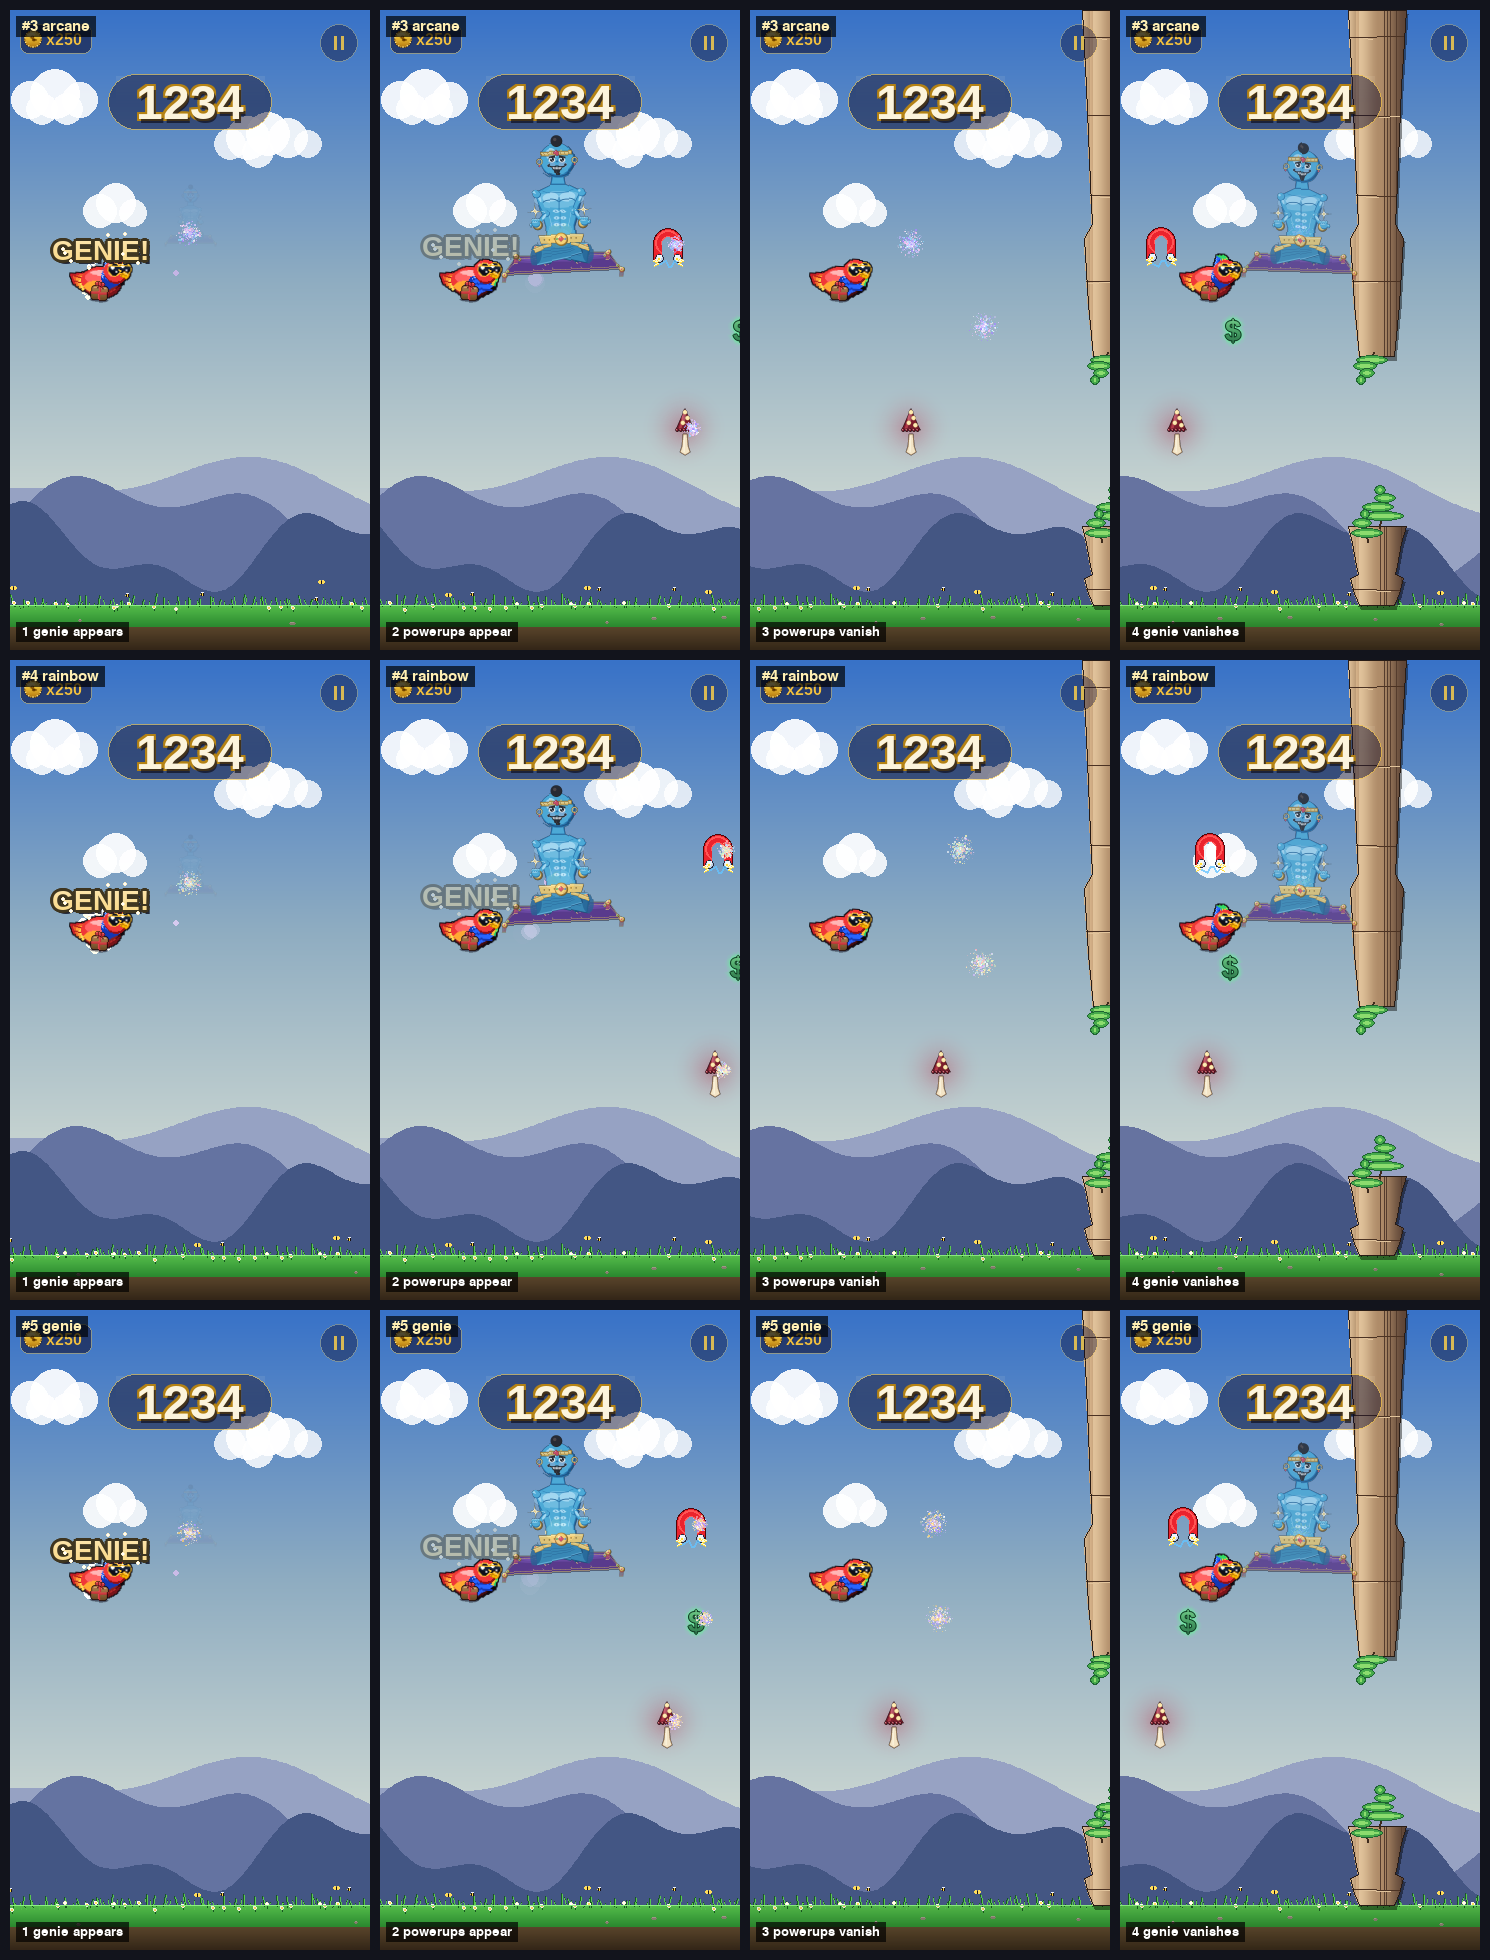
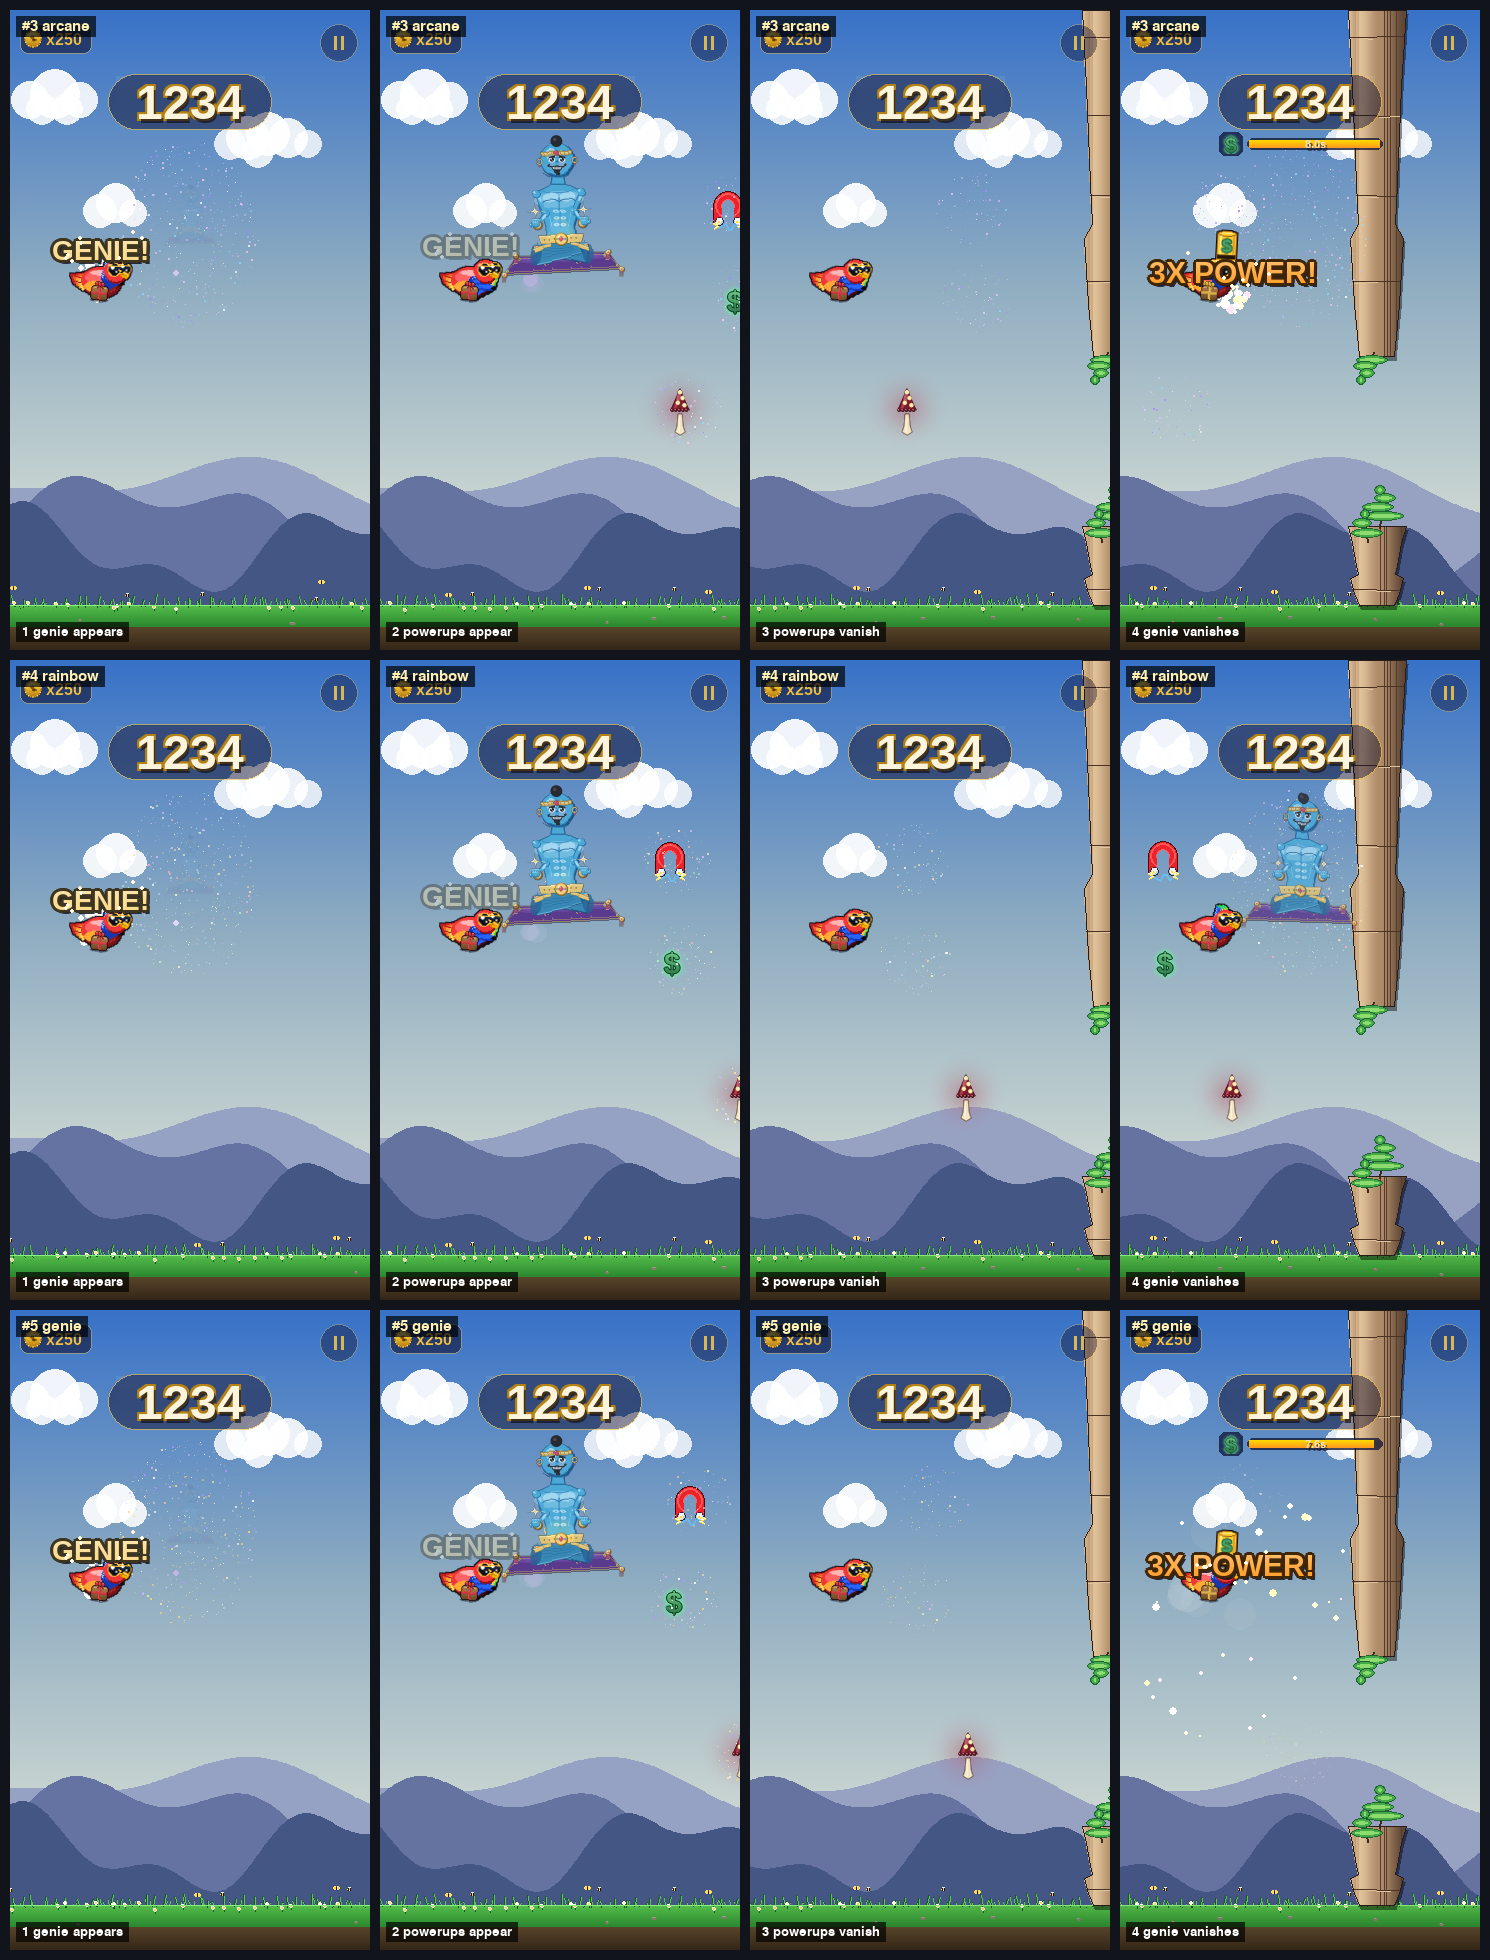
genie: size the poof to the thing poofing — a cloud enveloping the genie
_spawn_grainy_poof now fills an ellipse of (rx, ry) around the centre
instead of radiating from a point, with density auto-scaling to area.
The genie passes his on-screen sprite extents so appear/vanish wrap his
whole body in a magic-dust cloud; offers use a tight default puff.
Regenerates the 3-design x 4-phase comparison + offer-vanish demo.

https://claude.ai/code/session_01Ms85cBEeRiAtxZBCNh5vN5

diff --git a/game/world.py b/game/world.py
@@ -2194,25 +2194,33 @@ class World:
             color = random.choice(puff_colors)
             self.particles.append(CloudPuff(x, y, vx, vy, life, r0, r1, color))
 
-    def _spawn_grainy_poof(self, x, y, palette=None, n=470):
-        """Magic-dust poof (design #5 'genie gold+violet') — a DENSE
-        cloud of many tiny twinkling motes in white + gold + violet.
-        Used for EVERY genie beat: the genie appearing / vanishing and
-        the offers appearing / vanishing."""
+    def _spawn_grainy_poof(self, x, y, palette=None, n=None, rx=34, ry=34):
+        """Magic-dust poof (design #5 'genie gold+violet'). Fills an
+        ELLIPSE of half-extents (rx, ry) around (x, y) with fine
+        twinkling motes, so the cloud's AREA matches whatever is
+        poofing — a tight puff for a small offer powerup, a big cloud
+        enveloping the whole genie. Motes start spread across the
+        ellipse and drift gently outward; count auto-scales with area
+        to hold density."""
         if palette is None:
             palette = [(255, 255, 255), (255, 235, 180), (255, 215, 120),
                        (210, 185, 255), (175, 150, 255)]
+        if n is None:
+            n = max(90, int(rx * ry * 0.075))
         for _ in range(n):
-            ang = random.uniform(0, math.tau)
-            # Even disc fill (sqrt) so the cloud is dense in the middle
-            # and thins toward the edges.
-            sp  = random.uniform(10, 205) * math.sqrt(random.random())
-            vx  = math.cos(ang) * sp
-            vy  = math.sin(ang) * sp - random.uniform(6, 40)
-            life = random.uniform(0.40, 0.90)
+            a  = random.uniform(0, math.tau)
+            rr = math.sqrt(random.random())          # even area fill
+            px = x + math.cos(a) * rx * rr
+            py = y + math.sin(a) * ry * rr
+            dx, dy = px - x, py - y
+            d = math.hypot(dx, dy) or 1.0
+            spd = random.uniform(6, 42)
+            vx = dx / d * spd                         # gentle outward drift
+            vy = dy / d * spd - random.uniform(6, 28)
+            life = random.uniform(0.45, 0.95)
             size = random.choice((1, 1, 1, 2))
             self.particles.append(
-                PoofGrain(x, y, vx, vy, life, size, random.choice(palette)))
+                PoofGrain(px, py, vx, vy, life, size, random.choice(palette)))
 
     def _spawn_genie_reveal_poof(self, x, y):
         """Poof when a Genie offer materialises — the SAME design #5

diff --git a/tools/render_genie_phases.py b/tools/render_genie_phases.py
@@ -47,18 +47,26 @@ PHASES = ["1 genie appears", "2 powerups appear",
           "3 powerups vanish", "4 genie vanishes"]
 
 
-def _patch_palette(w, palette, n):
-    """Force every genie poof on this world to use `palette`/`n`."""
-    def _poof(self, x, y, palette_arg=None, n_arg=None):
-        for _ in range(n):
-            ang = random.uniform(0, math.tau)
-            sp  = random.uniform(10, 205) * math.sqrt(random.random())
-            vx  = math.cos(ang) * sp
-            vy  = math.sin(ang) * sp - random.uniform(6, 40)
-            life = random.uniform(0.40, 0.90)
+def _patch_palette(w, palette, _n):
+    """Force every genie poof on this world to use `palette`, keeping
+    the live ellipse-fill behaviour so the genie cloud matches his
+    size (rx/ry are passed by the genie / offer callers)."""
+    def _poof(self, x, y, palette_arg=None, n=None, rx=34, ry=34):
+        cnt = n if n is not None else max(90, int(rx * ry * 0.075))
+        for _ in range(cnt):
+            a  = random.uniform(0, math.tau)
+            rr = math.sqrt(random.random())
+            px = x + math.cos(a) * rx * rr
+            py = y + math.sin(a) * ry * rr
+            dx, dy = px - x, py - y
+            d = math.hypot(dx, dy) or 1.0
+            spd = random.uniform(6, 42)
+            vx = dx / d * spd
+            vy = dy / d * spd - random.uniform(6, 28)
+            life = random.uniform(0.45, 0.95)
             size = random.choice((1, 1, 1, 2))
             self.particles.append(
-                PoofGrain(x, y, vx, vy, life, size, random.choice(palette)))
+                PoofGrain(px, py, vx, vy, life, size, random.choice(palette)))
     w._spawn_grainy_poof = types.MethodType(_poof, w)
 
 

diff --git a/game/entities.py b/game/entities.py
@@ -3712,14 +3712,21 @@ class GenieCharacter:
                 cx, cy, vx, vy, life, 3, 11, color))
 
     def _spawn_appear_poof(self):
-        """Materialise flourish — a granular white poof (fine smoke
-        grains, not soft circles) at the spawn point."""
-        self.world._spawn_grainy_poof(self.x, self.y)
+        """Materialise flourish — a magic-dust CLOUD sized to envelop
+        the whole genie (ellipse from his on-screen sprite extents),
+        not a point burst."""
+        ow = self._native_w * self._display_scale
+        oh = self._native_h * self._display_scale
+        self.world._spawn_grainy_poof(self.x, self.y,
+                                      rx=ow * 0.50, ry=oh * 0.48)
 
     def _spawn_vanish_swirl(self):
-        """Disappear poof — the same granular white poof as the appear,
-        so the genie evaporates into fine smoke grains."""
-        self.world._spawn_grainy_poof(self.x, self.y)
+        """Disappear poof — the same genie-sized magic-dust cloud as
+        the appear, so he dissolves into dust that covers his body."""
+        ow = self._native_w * self._display_scale
+        oh = self._native_h * self._display_scale
+        self.world._spawn_grainy_poof(self.x, self.y,
+                                      rx=ow * 0.50, ry=oh * 0.48)
 
     # ── render ───────────────────────────────────────────────────────────
     def draw(self, surf):
